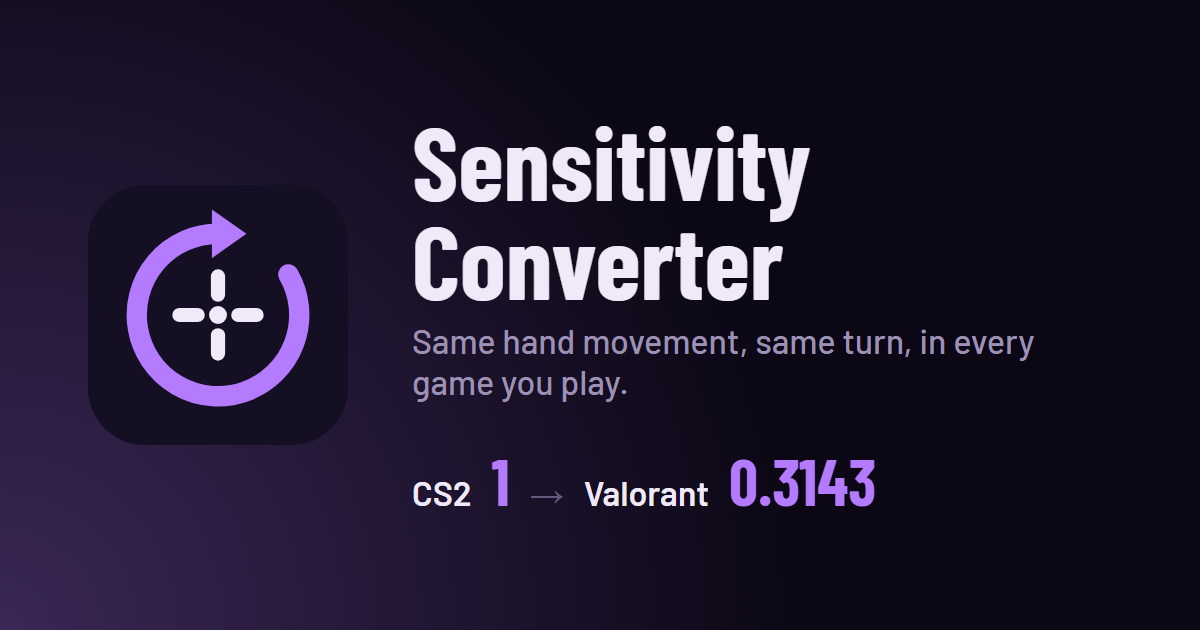
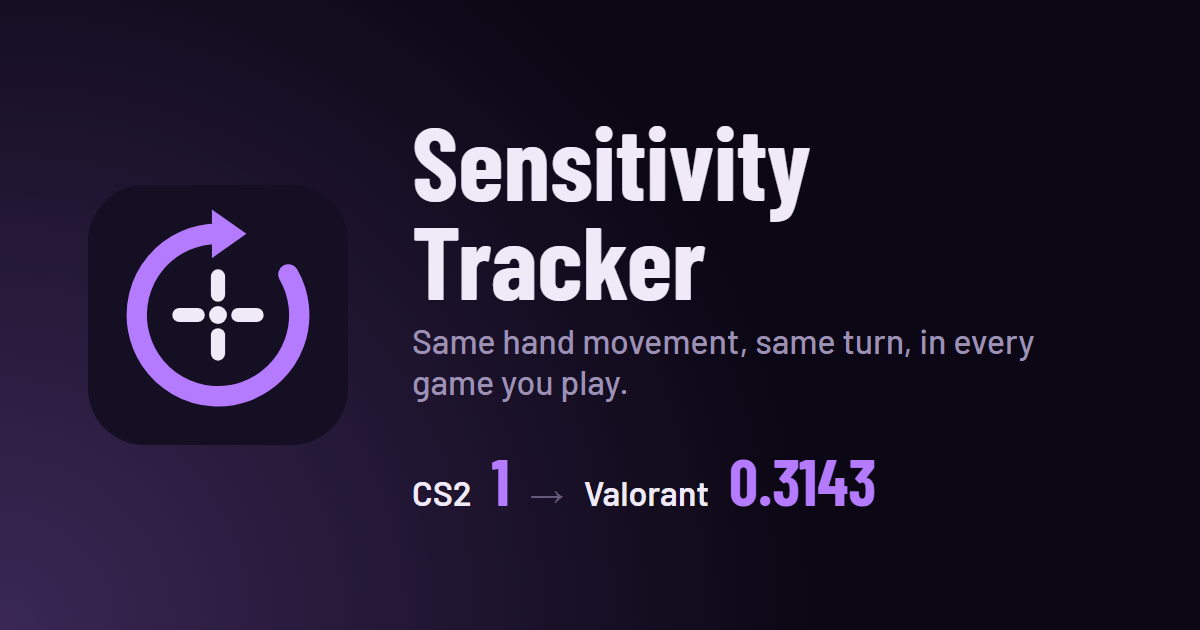
Rename the site to Sensitivity Tracker to match the repo and address

Changed region(s): [[0.3392, 0.3619, 0.6783, 0.4825]]

diff --git a/site/index.html b/site/index.html
@@ -4,7 +4,7 @@
     <meta charset="UTF-8">
     <meta name="viewport" content="width=device-width, initial-scale=1.0">
 
-    <title>Sensitivity Converter</title>
+    <title>Sensitivity Tracker</title>
     <meta name="description" content="Convert your mouse sensitivity between games. Same hand movement, same turn, in every game you play.">
 
     <!-- Link preview: what Discord, X, iMessage etc. show when the link is shared.
@@ -12,7 +12,7 @@
          If the site's address changes (e.g. a custom domain), update both. -->
     <meta property="og:type" content="website">
     <meta property="og:url" content="https://sensitivity-tracker.spooky7135.workers.dev/">
-    <meta property="og:title" content="Sensitivity Converter">
+    <meta property="og:title" content="Sensitivity Tracker">
     <meta property="og:description" content="Same hand movement, same turn, in every game you play.">
     <meta property="og:image" content="https://sensitivity-tracker.spooky7135.workers.dev/og-image.png">
     <meta property="og:image:width" content="1200">
@@ -48,7 +48,7 @@
                 </g>
                 <circle cx="32" cy="32" r="2.2" fill="currentColor"/>
             </svg>
-            Sensitivity Converter
+            Sensitivity Tracker
         </a>
         <nav>
             <a href="index.html" aria-current="page">Converter</a>

diff --git a/site/games.html b/site/games.html
@@ -4,7 +4,7 @@
     <meta charset="UTF-8">
     <meta name="viewport" content="width=device-width, initial-scale=1.0">
 
-    <title>Supported games | Sensitivity Converter</title>
+    <title>Supported games | Sensitivity Tracker</title>
 
     <link rel="preconnect" href="https://fonts.googleapis.com">
     <link rel="preconnect" href="https://fonts.gstatic.com" crossorigin>
@@ -34,7 +34,7 @@
                 </g>
                 <circle cx="32" cy="32" r="2.2" fill="currentColor"/>
             </svg>
-            Sensitivity Converter
+            Sensitivity Tracker
         </a>
         <nav>
             <a href="index.html">Converter</a>

diff --git a/design/og-card.html b/design/og-card.html
@@ -73,7 +73,7 @@
     <img class="mark" src="../site/favicon.svg" alt="">
 
     <div>
-        <h1>Sensitivity Converter</h1>
+        <h1>Sensitivity Tracker</h1>
         <p class="tagline">Same hand movement, same turn, in every game you play.</p>
         <p class="example">
             <span>CS2</span> <span class="value">1</span>
